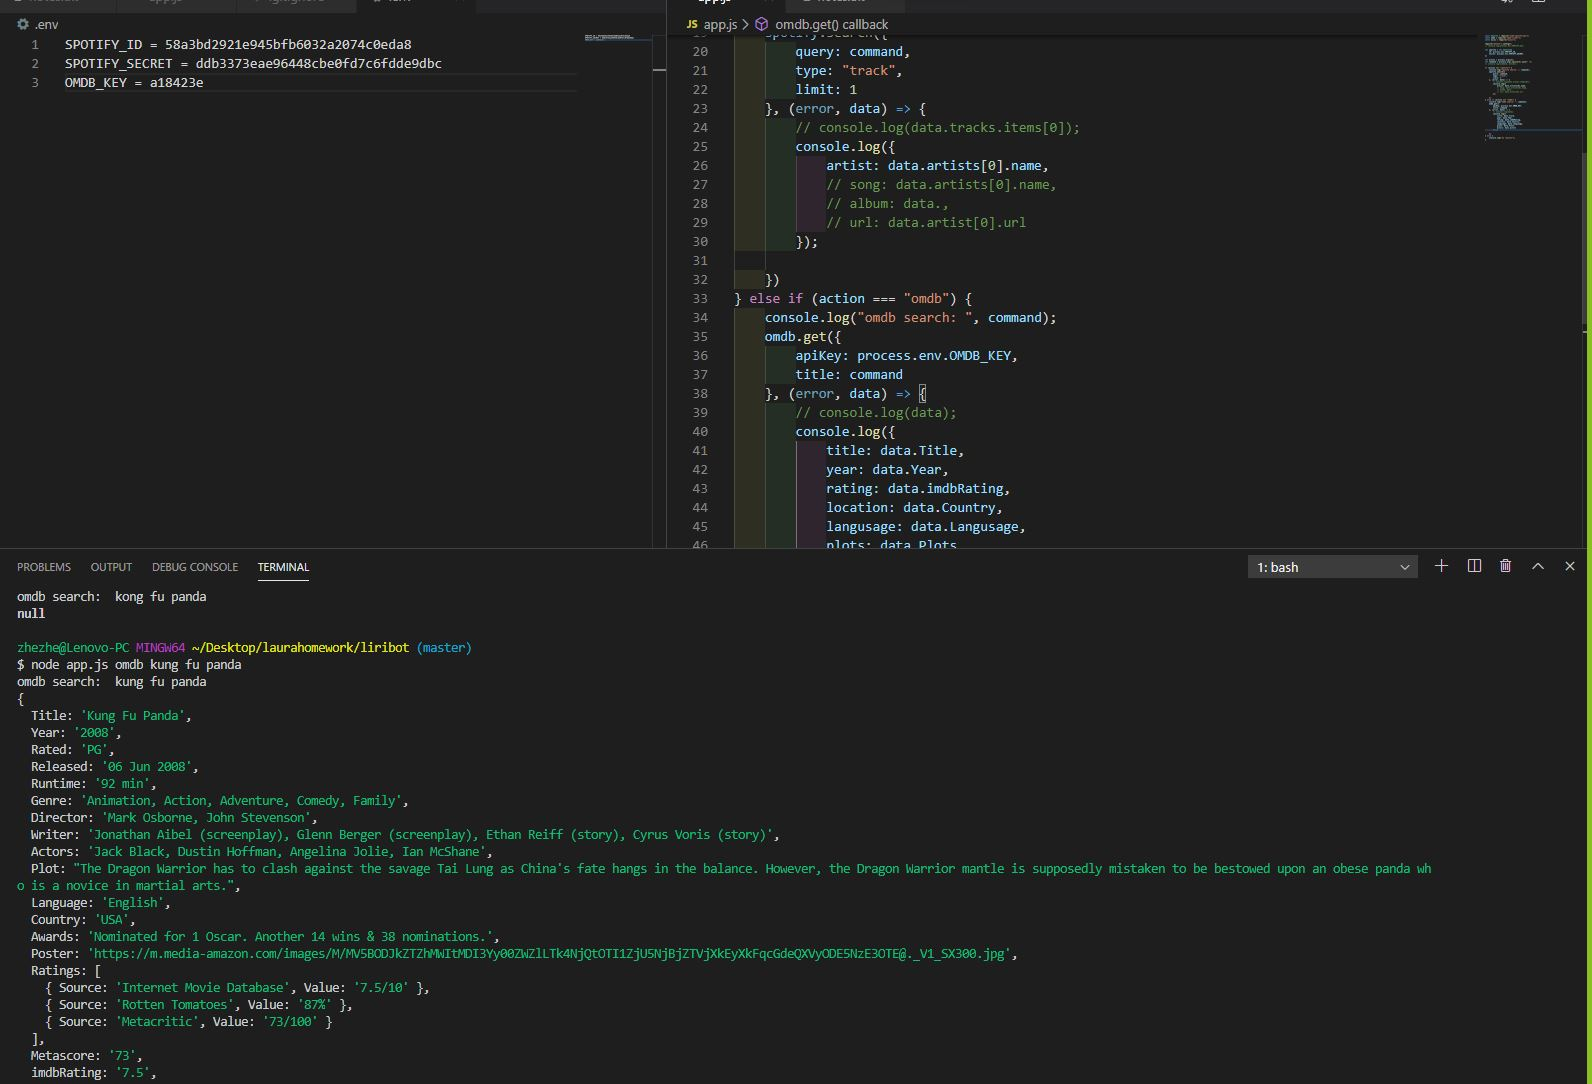
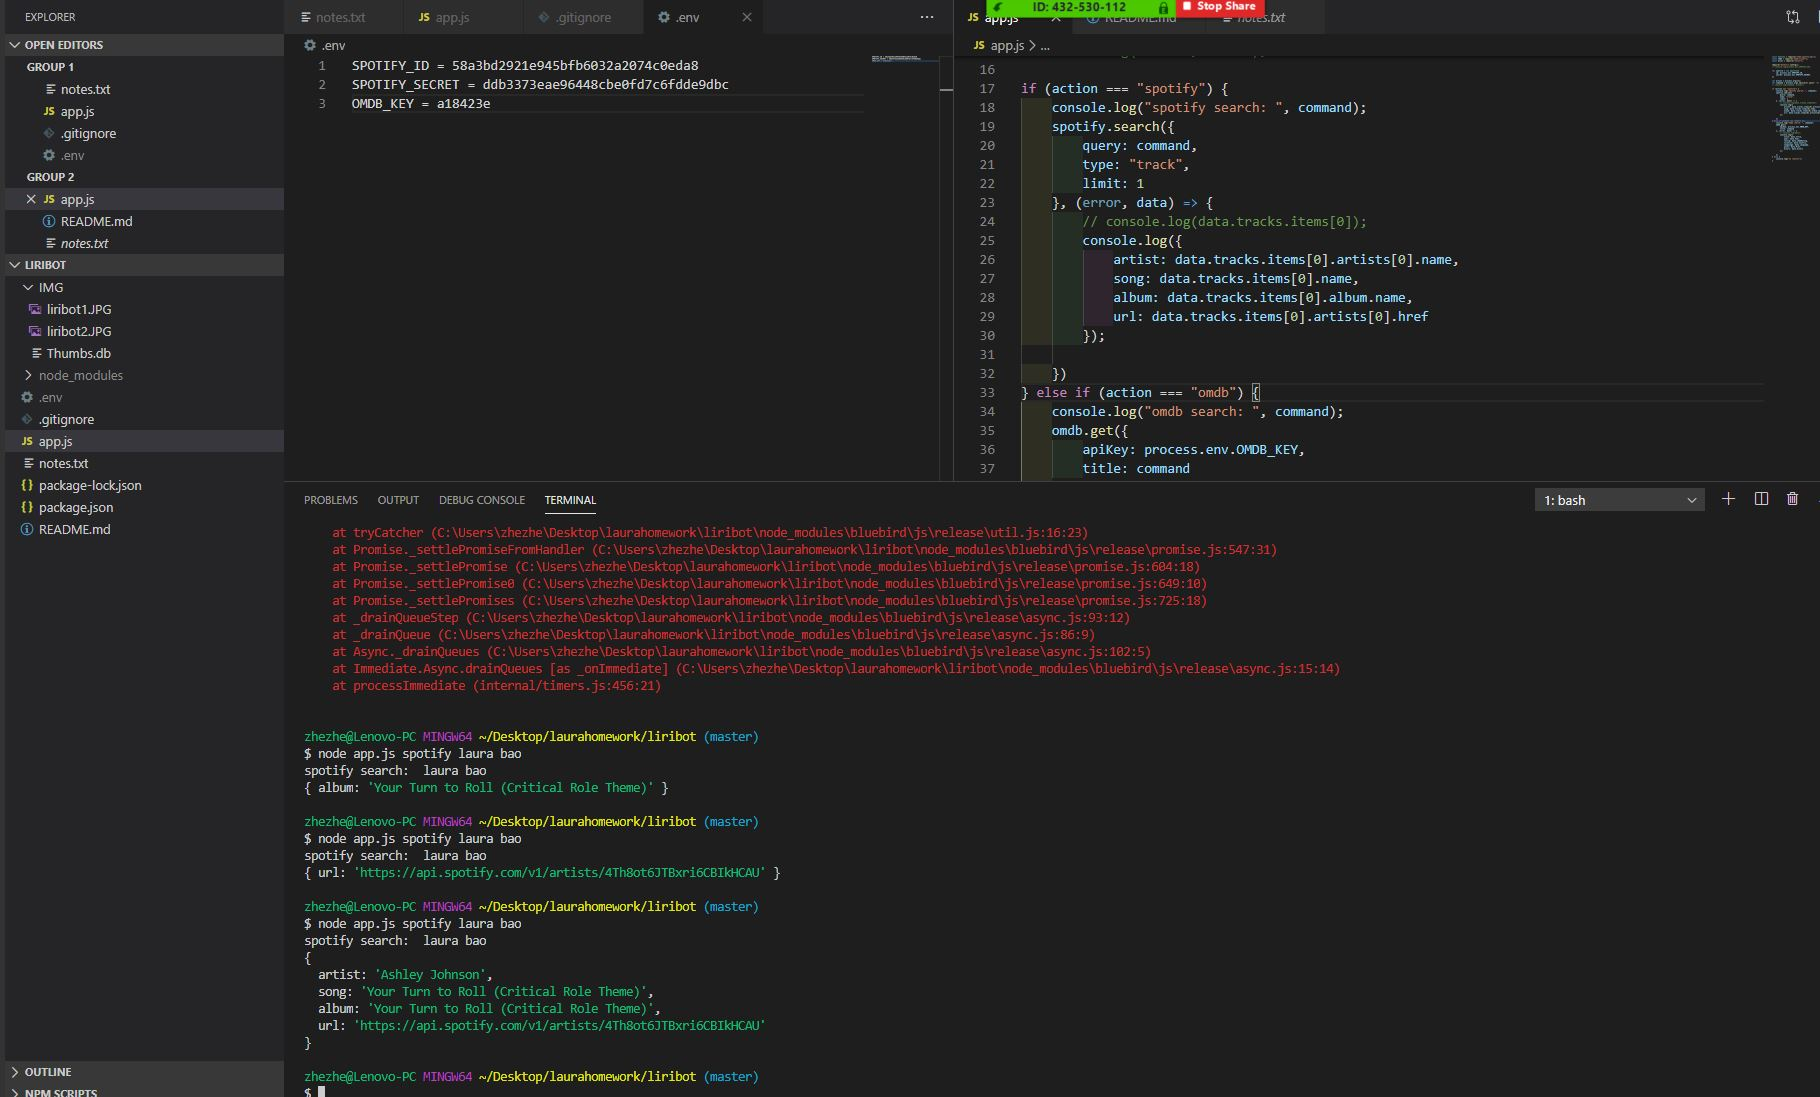
upload the right result

diff --git a/app.js b/app.js
@@ -23,10 +23,10 @@ if (action === "spotify") {
     }, (error, data) => {
         // console.log(data.tracks.items[0]);
         console.log({
-            artist: data.artists[0].name,
-            // song: data.artists[0].name,
-            // album: data.,
-            // url: data.artist[0].url
+            artist: data.tracks.items[0].artists[0].name,
+            song: data.tracks.items[0].name,
+            album: data.tracks.items[0].album.name,
+            url: data.tracks.items[0].artists[0].href
         });
 
     })
@@ -42,9 +42,9 @@ if (action === "spotify") {
             year: data.Year,
             rating: data.imdbRating,
             location: data.Country,
-            langusage: data.Langusage,
-            plots: data.Plots,
-            actors: data.actors
+            langusage: data.Language,
+            plots: data.Plot,
+            actors: data.Actors
         });
 
     })

diff --git a/README.md b/README.md
@@ -1,1 +1,2 @@
 ![spotify-this](./IMG/liribot1.JPG)
+![movie-this](./IMG/liribot2.JPG)
